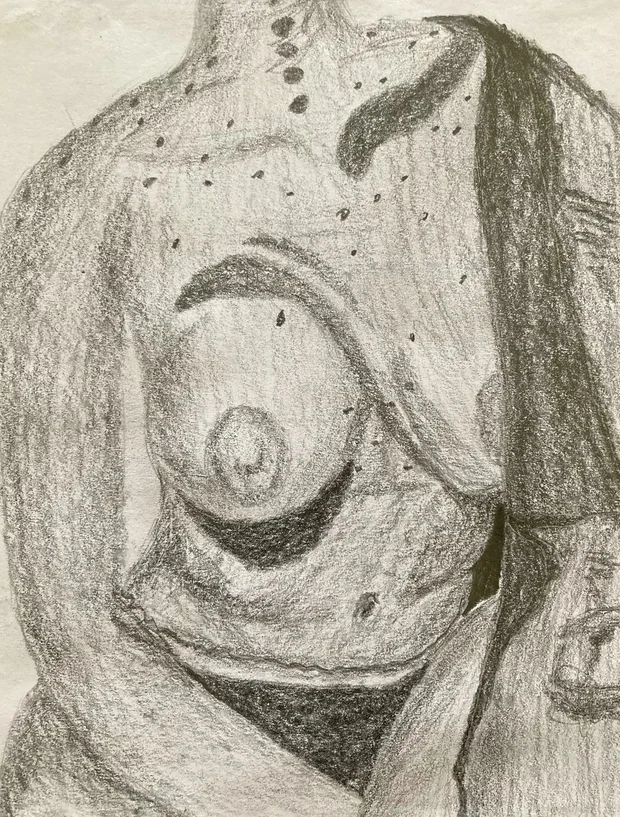
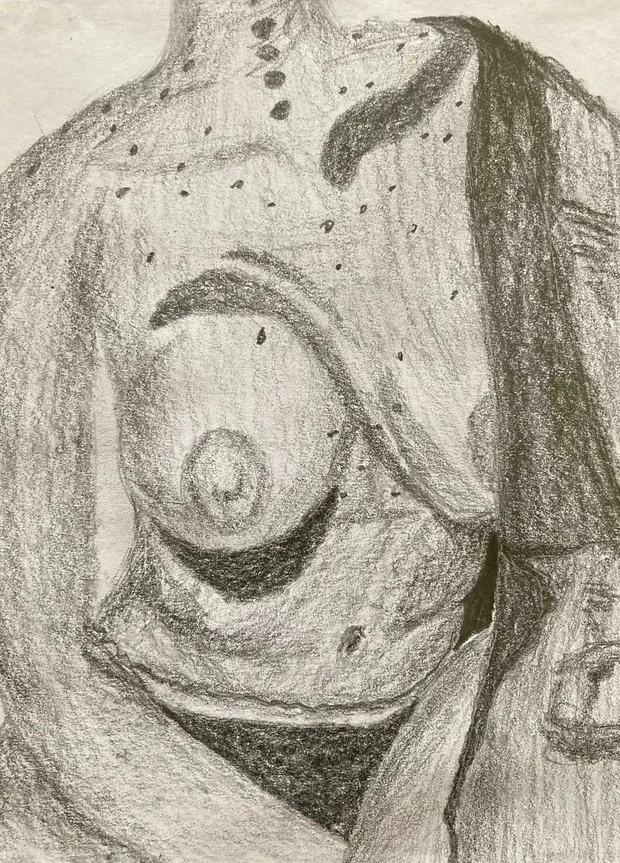
Clear the skewed white margins the straight trim could not reach
Several pieces were shot slightly off-square, so the white margin is a
wedge - a straight trim leaves part of it showing. This finds the sheet
edge per scan line and crops past its deepest point, biting a little into
the work where it has to, which is what Dominic asked for.

Eight artworks: mosali-thipa, butterfly-2, figure-study, twine-1, mpho,
tshehetso-triptych, tlhohonolofatso, pattern-relief. A margin only counts
if it is bright, flat and ends at a hard edge, so pale artwork - charcoal
on white paper, coffee washes - is left alone. Checked against a dark
ground where any remaining white edge shows.

diff --git a/index.html b/index.html
@@ -850,7 +850,7 @@ footer.bg-12-footer{padding-top:calc(40px + 64px)}
   </div>
   <div class="wrap">
     <div class="spread rv">
-      <figure class="feat work" data-slug="mosali-thipa"><div class="ai"><div class="art-img"><img src="images/thumb/mosali-thipa.webp" loading="lazy" alt="" width="620" height="470"><span class="enlarge">+</span></div></div><figcaption><b>Mosali o Tshwara Thipa ka Bohaleng</b><span>Charcoal on Fabriano · 2024</span></figcaption></figure>
+      <figure class="feat work" data-slug="mosali-thipa"><div class="ai"><div class="art-img"><img src="images/thumb/mosali-thipa.webp" loading="lazy" alt="" width="620" height="508"><span class="enlarge">+</span></div></div><figcaption><b>Mosali o Tshwara Thipa ka Bohaleng</b><span>Charcoal on Fabriano · 2024</span></figcaption></figure>
       <div class="spread-text">
         <div class="flourish flr-mark" aria-hidden="true"><svg viewBox="0 0 230 80" fill="none"><path d="M22 62 L38 30 L54 62 Z" stroke="#2A2622" stroke-width="2.4"/><path d="M50 62 L66 30 L82 62 Z" stroke="#2A2622" stroke-width="2.4"/><circle cx="126" cy="36" r="5" fill="#CC8E86"/><circle cx="146" cy="54" r="3.5" fill="#AC8190"/><path d="M190 30 L216 60 M216 30 L190 60" stroke="#2A2622" stroke-width="3" stroke-linecap="round"/></svg></div>
         <span class="kick">Series 01 · Woman of Africa</span>
@@ -965,14 +965,14 @@ footer.bg-12-footer{padding-top:calc(40px + 64px)}
       </div>
     </div>
     <div class="series-grid">
-      <figure class="work rv" data-slug="pattern-relief"><div class="ai"><div class="art-img"><img src="images/thumb/pattern-relief.webp" loading="lazy" alt="" width="620" height="1265"><span class="enlarge">+</span></div></div><figcaption><b>Untitled (Pattern Relief)</b><span>Twine work</span></figcaption></figure>
-      <figure class="work rv" data-slug="tshehetso-triptych"><div class="ai"><div class="art-img"><img src="images/thumb/tshehetso-triptych.webp" loading="lazy" alt="Tshehetso (Support) — the complete triptych" width="620" height="321"><span class="enlarge">+</span></div></div><figcaption><b>Tshehetso (Support)</b><span>the triptych · 2025</span></figcaption></figure>
+      <figure class="work rv" data-slug="pattern-relief"><div class="ai"><div class="art-img"><img src="images/thumb/pattern-relief.webp" loading="lazy" alt="" width="620" height="1264"><span class="enlarge">+</span></div></div><figcaption><b>Untitled (Pattern Relief)</b><span>Twine work</span></figcaption></figure>
+      <figure class="work rv" data-slug="tshehetso-triptych"><div class="ai"><div class="art-img"><img src="images/thumb/tshehetso-triptych.webp" loading="lazy" alt="Tshehetso (Support) — the complete triptych" width="620" height="316"><span class="enlarge">+</span></div></div><figcaption><b>Tshehetso (Support)</b><span>the triptych · 2025</span></figcaption></figure>
       <figure class="work rv" data-slug="twine-5"><div class="ai"><div class="art-img"><img src="images/thumb/twine-5.webp" loading="lazy" alt="Molefi — the first panel of Tshehetso" width="620" height="917"><span class="enlarge">+</span></div></div><figcaption><b>Molefi</b><span>Tshehetso · panel i · 2025</span></figcaption></figure>
       <figure class="work rv" data-slug="twine-3"><div class="ai"><div class="art-img"><img src="images/thumb/twine-3.webp" loading="lazy" alt="Katlego — the second panel of Tshehetso" width="620" height="761"><span class="enlarge">+</span></div></div><figcaption><b>Katlego</b><span>Tshehetso · panel ii · 2025</span></figcaption></figure>
-      <figure class="work rv" data-slug="tlhohonolofatso"><div class="ai"><div class="art-img"><img src="images/thumb/tlhohonolofatso.webp" loading="lazy" alt="Tlhohonolofatso — the third panel of Tshehetso" width="300" height="598"><span class="enlarge">+</span></div></div><figcaption><b>Tlhohonolofatso</b><span>Tshehetso · panel iii · 2025</span></figcaption></figure>
-      <figure class="work rv" data-slug="twine-1" data-nolb><div class="ai"><div class="art-img"><img src="images/thumb/twine-1.webp" loading="lazy" alt="woven relief" width="620" height="1144"></div></div><figcaption><b>Untitled</b><span>woven relief</span></figcaption></figure>
+      <figure class="work rv" data-slug="tlhohonolofatso"><div class="ai"><div class="art-img"><img src="images/thumb/tlhohonolofatso.webp" loading="lazy" alt="Tlhohonolofatso — the third panel of Tshehetso" width="300" height="596"><span class="enlarge">+</span></div></div><figcaption><b>Tlhohonolofatso</b><span>Tshehetso · panel iii · 2025</span></figcaption></figure>
+      <figure class="work rv" data-slug="twine-1" data-nolb><div class="ai"><div class="art-img"><img src="images/thumb/twine-1.webp" loading="lazy" alt="woven relief" width="620" height="1157"></div></div><figcaption><b>Untitled</b><span>woven relief</span></figcaption></figure>
       <figure class="work rv" data-slug="twine-pink"><div class="ai"><div class="art-img"><img src="images/thumb/twine-pink.webp" loading="lazy" alt="Woman of the vine — a pink and red twine relief" width="620" height="1102"><span class="enlarge">+</span></div></div><figcaption><b>Woman of the vine</b><span>Twine &amp; thread on woven ground · 2026</span></figcaption></figure>
-      <figure class="work rv" data-slug="mpho"><div class="ai"><div class="art-img"><img src="images/thumb/mpho.webp" loading="lazy" alt="Mpho" width="620" height="1295"><span class="enlarge">+</span></div></div><figcaption><b>Mpho</b><span>Acrylic-covered twine on wood · 2026</span></figcaption></figure>
+      <figure class="work rv" data-slug="mpho"><div class="ai"><div class="art-img"><img src="images/thumb/mpho.webp" loading="lazy" alt="Mpho" width="620" height="1328"><span class="enlarge">+</span></div></div><figcaption><b>Mpho</b><span>Acrylic-covered twine on wood · 2026</span></figcaption></figure>
       <figure class="work rv" data-slug="red-15"><div class="ai"><div class="art-img"><img src="images/thumb/red-15.webp" loading="lazy" alt="" width="620" height="501"><span class="enlarge">+</span></div></div><figcaption><b>Untitled</b><span>Mixed media &amp; twine · 2025</span></figcaption></figure>
     </div>
   </div>
@@ -1005,10 +1005,10 @@ footer.bg-12-footer{padding-top:calc(40px + 64px)}
       <figure class="work rv" data-slug="sunset-scene"><div class="ai"><div class="art-img"><img src="images/thumb/sunset-scene.webp" loading="lazy" alt="" width="620" height="774"><span class="enlarge">+</span></div></div><figcaption><b>Sunset Scene</b><span>Pencil, graphite &amp; colour · 2024</span></figcaption></figure>
       <figure class="work rv" data-slug="marshmellow"><div class="ai"><div class="art-img"><img src="images/thumb/marshmellow.webp" loading="lazy" alt="" width="620" height="871"><span class="enlarge">+</span></div></div><figcaption><b>Marshmellow</b><span>Acrylic · 2024</span></figcaption></figure>
       <figure class="work rv" data-slug="early-portrait-1"><div class="ai"><div class="art-img"><img src="images/thumb/early-portrait-1.webp" loading="lazy" alt="" width="620" height="1056"><span class="enlarge">+</span></div></div><figcaption><b>Early Portrait</b><span>Charcoal · 2019</span></figcaption></figure>
-      <figure class="work rv" data-slug="figure-study"><div class="ai"><div class="art-img"><img src="images/thumb/figure-study.webp" loading="lazy" alt="" width="620" height="817"><span class="enlarge">+</span></div></div><figcaption><b>Untitled (Figure)</b><span>Graphite</span></figcaption></figure>
+      <figure class="work rv" data-slug="figure-study"><div class="ai"><div class="art-img"><img src="images/thumb/figure-study.webp" loading="lazy" alt="" width="620" height="863"><span class="enlarge">+</span></div></div><figcaption><b>Untitled (Figure)</b><span>Graphite</span></figcaption></figure>
       <figure class="work rv" data-slug="anatomy"><div class="ai"><div class="art-img"><img src="images/thumb/anatomy.webp" loading="lazy" alt="" width="620" height="540"><span class="enlarge">+</span></div></div><figcaption><b>Anatomy Study</b><span>Mixed media</span></figcaption></figure>
       <figure class="work rv" data-slug="butterfly-1"><div class="ai"><div class="art-img"><img src="images/thumb/butterfly-1.webp" loading="lazy" alt="" width="620" height="910"><span class="enlarge">+</span></div></div><figcaption><b>Butterfly Study I</b><span>Coffee on paper</span></figcaption></figure>
-      <figure class="work rv" data-slug="butterfly-2"><div class="ai"><div class="art-img"><img src="images/thumb/butterfly-2.webp" loading="lazy" alt="" width="620" height="903"><span class="enlarge">+</span></div></div><figcaption><b>Butterfly Study II</b><span>Coffee on paper</span></figcaption></figure>
+      <figure class="work rv" data-slug="butterfly-2"><div class="ai"><div class="art-img"><img src="images/thumb/butterfly-2.webp" loading="lazy" alt="" width="620" height="832"><span class="enlarge">+</span></div></div><figcaption><b>Butterfly Study II</b><span>Coffee on paper</span></figcaption></figure>
       <figure class="work rv" data-slug="butterfly-3"><div class="ai"><div class="art-img"><img src="images/thumb/butterfly-3.webp" loading="lazy" alt="" width="620" height="908"><span class="enlarge">+</span></div></div><figcaption><b>Butterfly Study III</b><span>Coffee &amp; colour</span></figcaption></figure>
       <figure class="work rv" data-slug="botanical"><div class="ai"><div class="art-img"><img src="images/thumb/botanical.webp" loading="lazy" alt="" width="620" height="890"><span class="enlarge">+</span></div></div><figcaption><b>Botanical Study</b><span>Coffee on paper</span></figcaption></figure>
       <figure class="work rv" data-slug="butterfly-gold"><div class="ai"><div class="art-img"><img src="images/thumb/butterfly-gold.webp" loading="lazy" alt="" width="620" height="1024"><span class="enlarge">+</span></div></div><figcaption><b>Untitled (Monarch)</b><span>Ink &amp; bleach</span></figcaption></figure>
